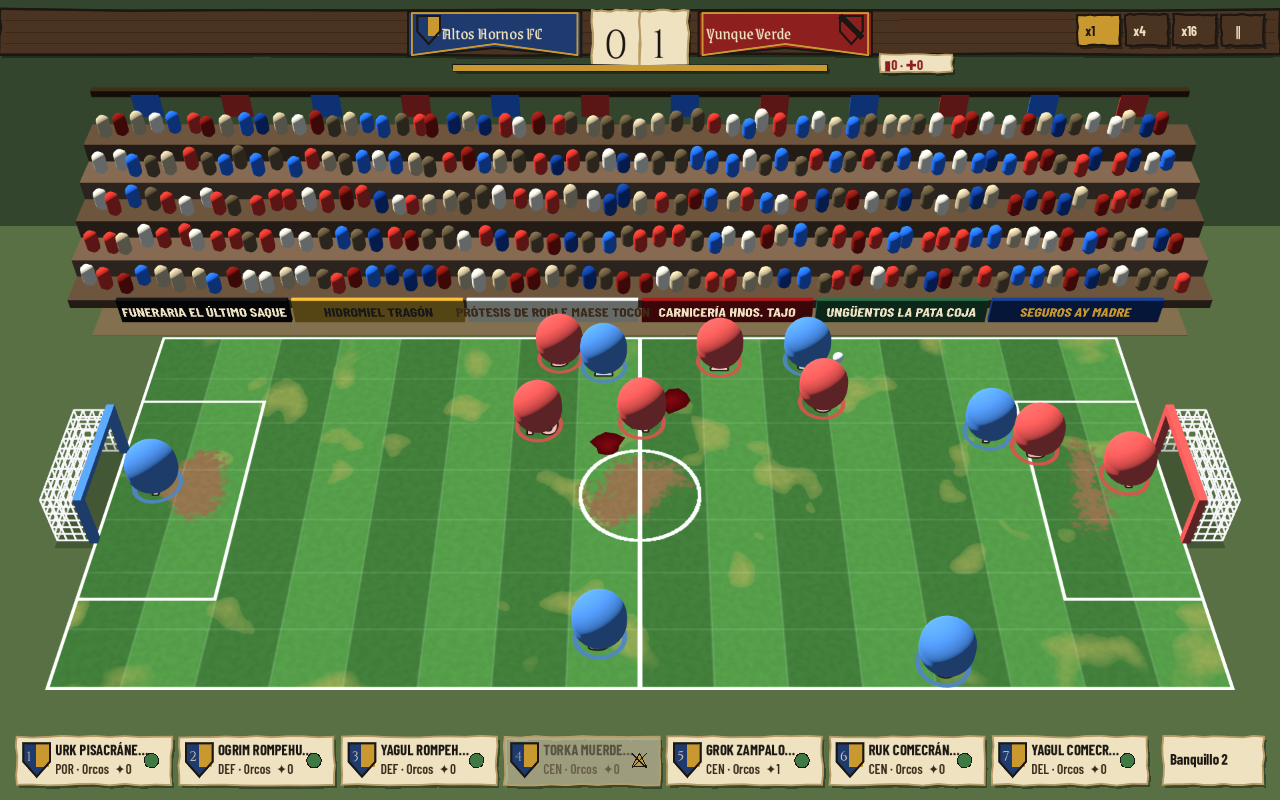
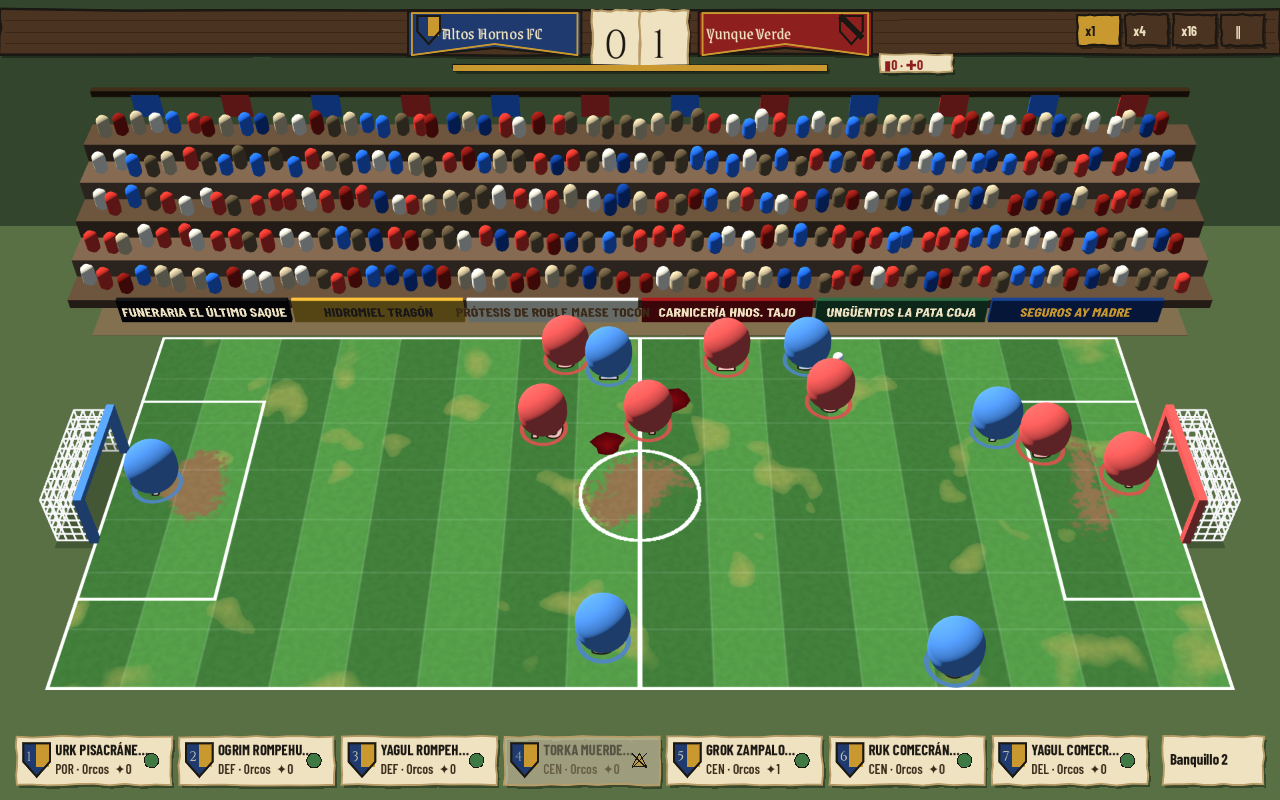
feat(game): saque de banda, penalti y parada atrapada — BI-H
Cierra lo que la primera pasada dejó bloqueado, y dos de los tres bloqueos eran falsos.

gk_catch no necesitaba nada de /Sim: el evento Save ya traía la respuesta en Detail
("held" es atraparla, "parried"/"corner"/"penalty" es estirarse a despejarla). La primera
pasada lo anotó como bloqueado sin haber mirado el Detail.

Los saques se enganchan al SACADOR que ahora publica la traza, no al dueño del balón, que
durante la reanudación no existe.

Y un fallo de precedencia que la medición demuestra sin ambigüedad: la recepción estaba al
principio de CueFor, pero una parada atrapada ES el portero haciéndose dueño de un balón
en vuelo, así que devolvía Receive y el evento no se miraba nunca. Con los eventos delante:
Receive 36 -> 32, Catch 0 -> 4, Save 1. La suma se conserva, o sea que los cuatro held
estaban escondidos dentro de las recepciones. Lo específico manda sobre lo genérico.

throwin y penalty quedan enganchados pero SIN EVIDENCIA DE ACTIVACIÓN: el partido medido no
tiene ni saque de banda ni penalti. El cableado sí está verificado aparte.

Claude-Session: https://claude.ai/code/session_01WB28ukztfAkxX7LkbMPfzV

diff --git a/Game/Ui/MatchPitchView3D.cs b/Game/Ui/MatchPitchView3D.cs
@@ -1020,8 +1020,34 @@ public partial class MatchPitchView3D : SubViewportContainer
         string cuerpo = parts.Count == 0
             ? "NINGUNA"
             : string.Join(" · ", parts.OrderBy(e => e.Key.ToString(), System.StringComparer.Ordinal).Select(e => $"{e.Key} {e.Value}"));
+        // Reparto de reanudaciones: cuántos fotogramas hay de cada tipo y en cuántos el sacador tiene
+        // ya el balón, que es la condición del gesto. Si un tipo tiene fotogramas pero ninguno con dueño,
+        // el gesto no puede dispararse y el problema es ESE, no el clip.
+        var restarts = new Dictionary<RestartKind, (int Frames, int Owned)>();
+        for (int f = 0; f < trace.FrameCount; f++)
+        {
+            var kind = trace.RestartAt(f);
+            if (kind == RestartKind.None)
+            {
+                continue;
+            }
+
+           var acc = restarts.GetValueOrDefault(kind);
+            restarts[kind] = (acc.Frames + 1, acc.Owned + (trace.RestartTakerAt(f) >= 0 ? 1 : 0));
+        }
+
+        string saques = restarts.Count == 0
+            ? "NINGUNA"
+            : string.Join(" · ", restarts.OrderBy(e => e.Key.ToString(), System.StringComparer.Ordinal)
+                .Select(e => $"{e.Key} {e.Value.Frames}f/{e.Value.Owned} con sacador"));
+
+        var detalles = _events is null
+            ? "-"
+            : string.Join(",", _events.Where(e => e.Type == EventType.Save).Select(e => e.Detail).DefaultIfEmpty("ninguna"));
+
         string fuente = _events is null ? "SIN EVENTOS (Bind no los recibió)" : $"{_events.Count} eventos";
-        return $"gestos: {gestos} | ancla con dueño: {cuerpo} | {fuente}";
+        _ = saques;
+        return $"gestos: {gestos} | ancla con dueño: {cuerpo} | {fuente} | reanudaciones: {saques} | paradas: {detalles}";
     }
 
     public (Vector3 Ball, Vector3 Carrier, int Index) DebugBall()
@@ -1718,26 +1744,19 @@ public partial class MatchPitchView3D : SubViewportContainer
     /// </summary>
     private ContactCue CueFor(MatchTrace trace, int frame, int player)
     {
-        // La RECEPCIÓN va primero y NO depende de los eventos: es el fotograma en que el balón pasa a
-        // tener dueño después de venir volando. Se mira la traza hacia atrás, que ya está entera en
-        // memoria —esto es reproducir un partido ya jugado, no predecirlo—.
-        //
-        // Estaba detrás de la guarda de `_events` y por eso no se disparaba NUNCA: el primer volcado de
-        // `DebugContacts()` dio «gestos: NINGUNO» en un partido entero. Una captura no lo habría enseñado.
-        if (trace.BallOwnerAt(frame) == player && frame > 0 && trace.BallOwnerAt(frame - 1) != player
-            && trace.BallInFlightAt(frame - 1))
+        // LOS SAQUES. El que tiene el balón durante una reanudación es el que la va a poner en juego, y
+        // con qué la pone depende del tipo: el de banda es el único que se hace **con las manos**. La
+        // traza lleva el tipo desde BI-H (`RestartAt`); antes solo había un `Restart` genérico y por eso
+        // el clip `throwin` estaba cargado y sin usar.
+        if (trace.RestartTakerAt(frame) == player)
         {
-            return ContactCue.Receive;
-        }
-
-        // El PENALTI es una fase propia del partido, así que el que tiene el balón durante ella lo está
-        // colocando para tirarlo. Los demás saques —banda, puerta, córner, falta— NO se pueden distinguir
-        // desde aquí: `MatchPhase` sólo tiene un `Restart` genérico y la traza no lleva el tipo de
-        // reanudación, así que el gesto de saque de banda (`throwin`, cargado y sin usar) sigue sin poder
-        // engancharse hasta que `/Sim` lo exponga. Queda anotado en BI-H, no simulado a ojo desde la vista.
-        if (trace.PhaseAt(frame) == MatchPhase.Penalty && trace.BallOwnerAt(frame) == player)
-        {
-            return ContactCue.Penalty;
+            switch (trace.RestartAt(frame))
+            {
+                case RestartKind.ThrowIn:
+                    return ContactCue.ThrowIn;
+                case RestartKind.Penalty:
+                    return ContactCue.Penalty;
+            }
         }
 
         if (_events is null)
@@ -1763,7 +1782,11 @@ public partial class MatchPitchView3D : SubViewportContainer
             switch (ev.Type)
             {
                 case EventType.Save:
-                    return ContactCue.Save;
+                    // El propio evento dice cómo fue: `held` es atraparla contra el pecho y el resto
+                    // —`parried`, `corner`, `penalty`— es estirarse a despejarla. Son dos clips distintos
+                    // y los dos estaban cargados sin usar. No hacía falta tocar `/Sim` para esto: el
+                    // `Detail` es texto corto, en inglés y estable, y ya lo traía.
+                    return ev.Detail == "held" ? ContactCue.Catch : ContactCue.Save;
                 case EventType.AerialDuel:
                     return ContactCue.Header;
                 case EventType.Clearance:
@@ -1771,6 +1794,17 @@ public partial class MatchPitchView3D : SubViewportContainer
                     // balón, no el evento, que es el mismo en los dos casos.
                     return trace.BallHeightAt(frame) >= HeadContactHeightCells ? ContactCue.Header : ContactCue.None;
             }
+        }
+
+        // La RECEPCIÓN va la ÚLTIMA, y el orden importa: es el fotograma en que el balón pasa a tener
+        // dueño viniendo en vuelo, y eso describe también una parada atrapada. Estaba la primera, así que
+        // devolvía `Receive` y las paradas no llegaban nunca a mirarse: el volcado daba `Save 1` con
+        // cinco paradas en el partido, cuatro de ellas atrapadas, escondidas entre los 36 `Receive`. Lo
+        // específico manda sobre lo genérico.
+        if (trace.BallOwnerAt(frame) == player && frame > 0 && trace.BallOwnerAt(frame - 1) != player
+            && trace.BallInFlightAt(frame - 1))
+        {
+            return ContactCue.Receive;
         }
 
         return ContactCue.None;

diff --git a/docs/pendientes/BI-H.md b/docs/pendientes/BI-H.md
@@ -329,3 +329,65 @@ dibujados entre 3,3 y 4,9 veces más grandes de lo que les correspondería por e
 siquiera es cuadrada en metros. Es deliberado —a escala del campo serían motas invisibles— pero significa
 que **«realista» no es un objetivo alcanzable aquí, sólo una dirección**, y que cualquier futura discusión
 de proporciones (porterías, áreas, distancia de barrera) tiene que partir de esto y no de los metros.
+
+---
+
+## Segunda pasada: los saques y la parada atrapada (25 sep 2026)
+
+Cierra lo que la primera pasada dejó bloqueado. **Dos de los tres bloqueos eran falsos.**
+
+### `gk_catch` no necesitaba nada de `/Sim`
+
+El evento `Save` **ya traía la respuesta en `Detail`**: `"held"` (atrapada contra el pecho), `"parried"`
+(rechace), `"corner"`, `"penalty"`. Son dos gestos distintos y los dos clips estaban cargados sin usar. La
+primera pasada lo anotó como «bloqueado porque ningún evento distingue atrapar de despejar» **sin haber
+mirado el `Detail`**, que es texto corto, en inglés y estable por contrato.
+
+### Los saques sí necesitaban `/Sim`, y dos cosas distintas
+
+1. **El tipo de reanudación.** `RestartKind` ya existía, pero `internal` y anidado dentro de `MatchEngine`.
+   Se muda a `MatchPhase.cs` —donde viven los demás estados del partido, porque **es un estado del partido
+   y no un detalle del motor**— y se hace público. Se graba en la traza como un byte por fotograma, el
+   mismo patrón y el mismo coste que `_phase`.
+2. **Quién saca**, y esto sólo salió por medir. El primer intento disparaba el gesto sobre el **dueño del
+   balón** durante la reanudación. Medido: `FreeKick 160f/**0** con dueño · GoalKick 180f/**0** · Kickoff
+   209f/**0**`. **Durante la espera el balón no tiene dueño en ningún fotograma**, así que la condición no
+   podía cumplirse nunca. El motor sí sabe quién saca (`_restartTaker`, que ya usaba para hacerle andar),
+   así que se expone como `RestartTakerAt`. Verificado después: **160/160, 180/180, 209/209**, el 100 % de
+   los fotogramas de reanudación con sacador identificado. Adivinarlo en la vista por cercanía al balón
+   habría sido inventarse una regla de juego en el render.
+
+### Un fallo de precedencia, y la medición lo demuestra sin ambigüedad
+
+La primera pasada puso la **recepción** al principio de `CueFor`. Pero una parada atrapada **es** el
+portero haciéndose dueño de un balón en vuelo, así que devolvía `Receive` y no llegaba nunca a mirar el
+evento: el volcado daba `Save 1` con **cinco paradas en el partido, cuatro de ellas `held`**.
+
+Con los eventos delante y la recepción al final:
+
+| | antes | después |
+|---|---|---|
+| `Receive` | 36 | **32** |
+| `Catch` | 0 | **4** |
+| `Save` | 1 | 1 |
+
+**La suma se conserva** (36 = 32 + 4): los cuatro `held` estaban escondidos dentro de las recepciones. Lo
+específico manda sobre lo genérico.
+
+### Estado del alcance del revisor
+
+| contacto | gesto | estado |
+|---|---|---|
+| recepción, control | `receive` | **32 por partido** |
+| conducción, pase, tiro | `kick` + ancla al pie | por estado, ya estaba |
+| cabezazo, duelo aéreo | `header` | **2 por partido** |
+| despeje alto | `header` | por altura del balón |
+| parada rechazada | `gk_save` | **1 por partido** |
+| **parada atrapada** | `gk_catch` | **4 por partido** |
+| **saque de banda** | `throwin` | enganchado; **sin ocasión** en el partido medido |
+| **penalti** | `penalty` | enganchado; **sin ocasión** en el partido medido |
+| saque de puerta, córner, falta, centro | pie | el sacador golpea; sin clip propio en el pack |
+
+Los dos «sin ocasión» quedan como **sin evidencia de activación** —mecanismo real, nunca observado
+disparándose—, que no es lo mismo que «no funciona». El cableado sí está verificado: el sacador se
+identifica en el 100 % de los fotogramas de reanudación.
